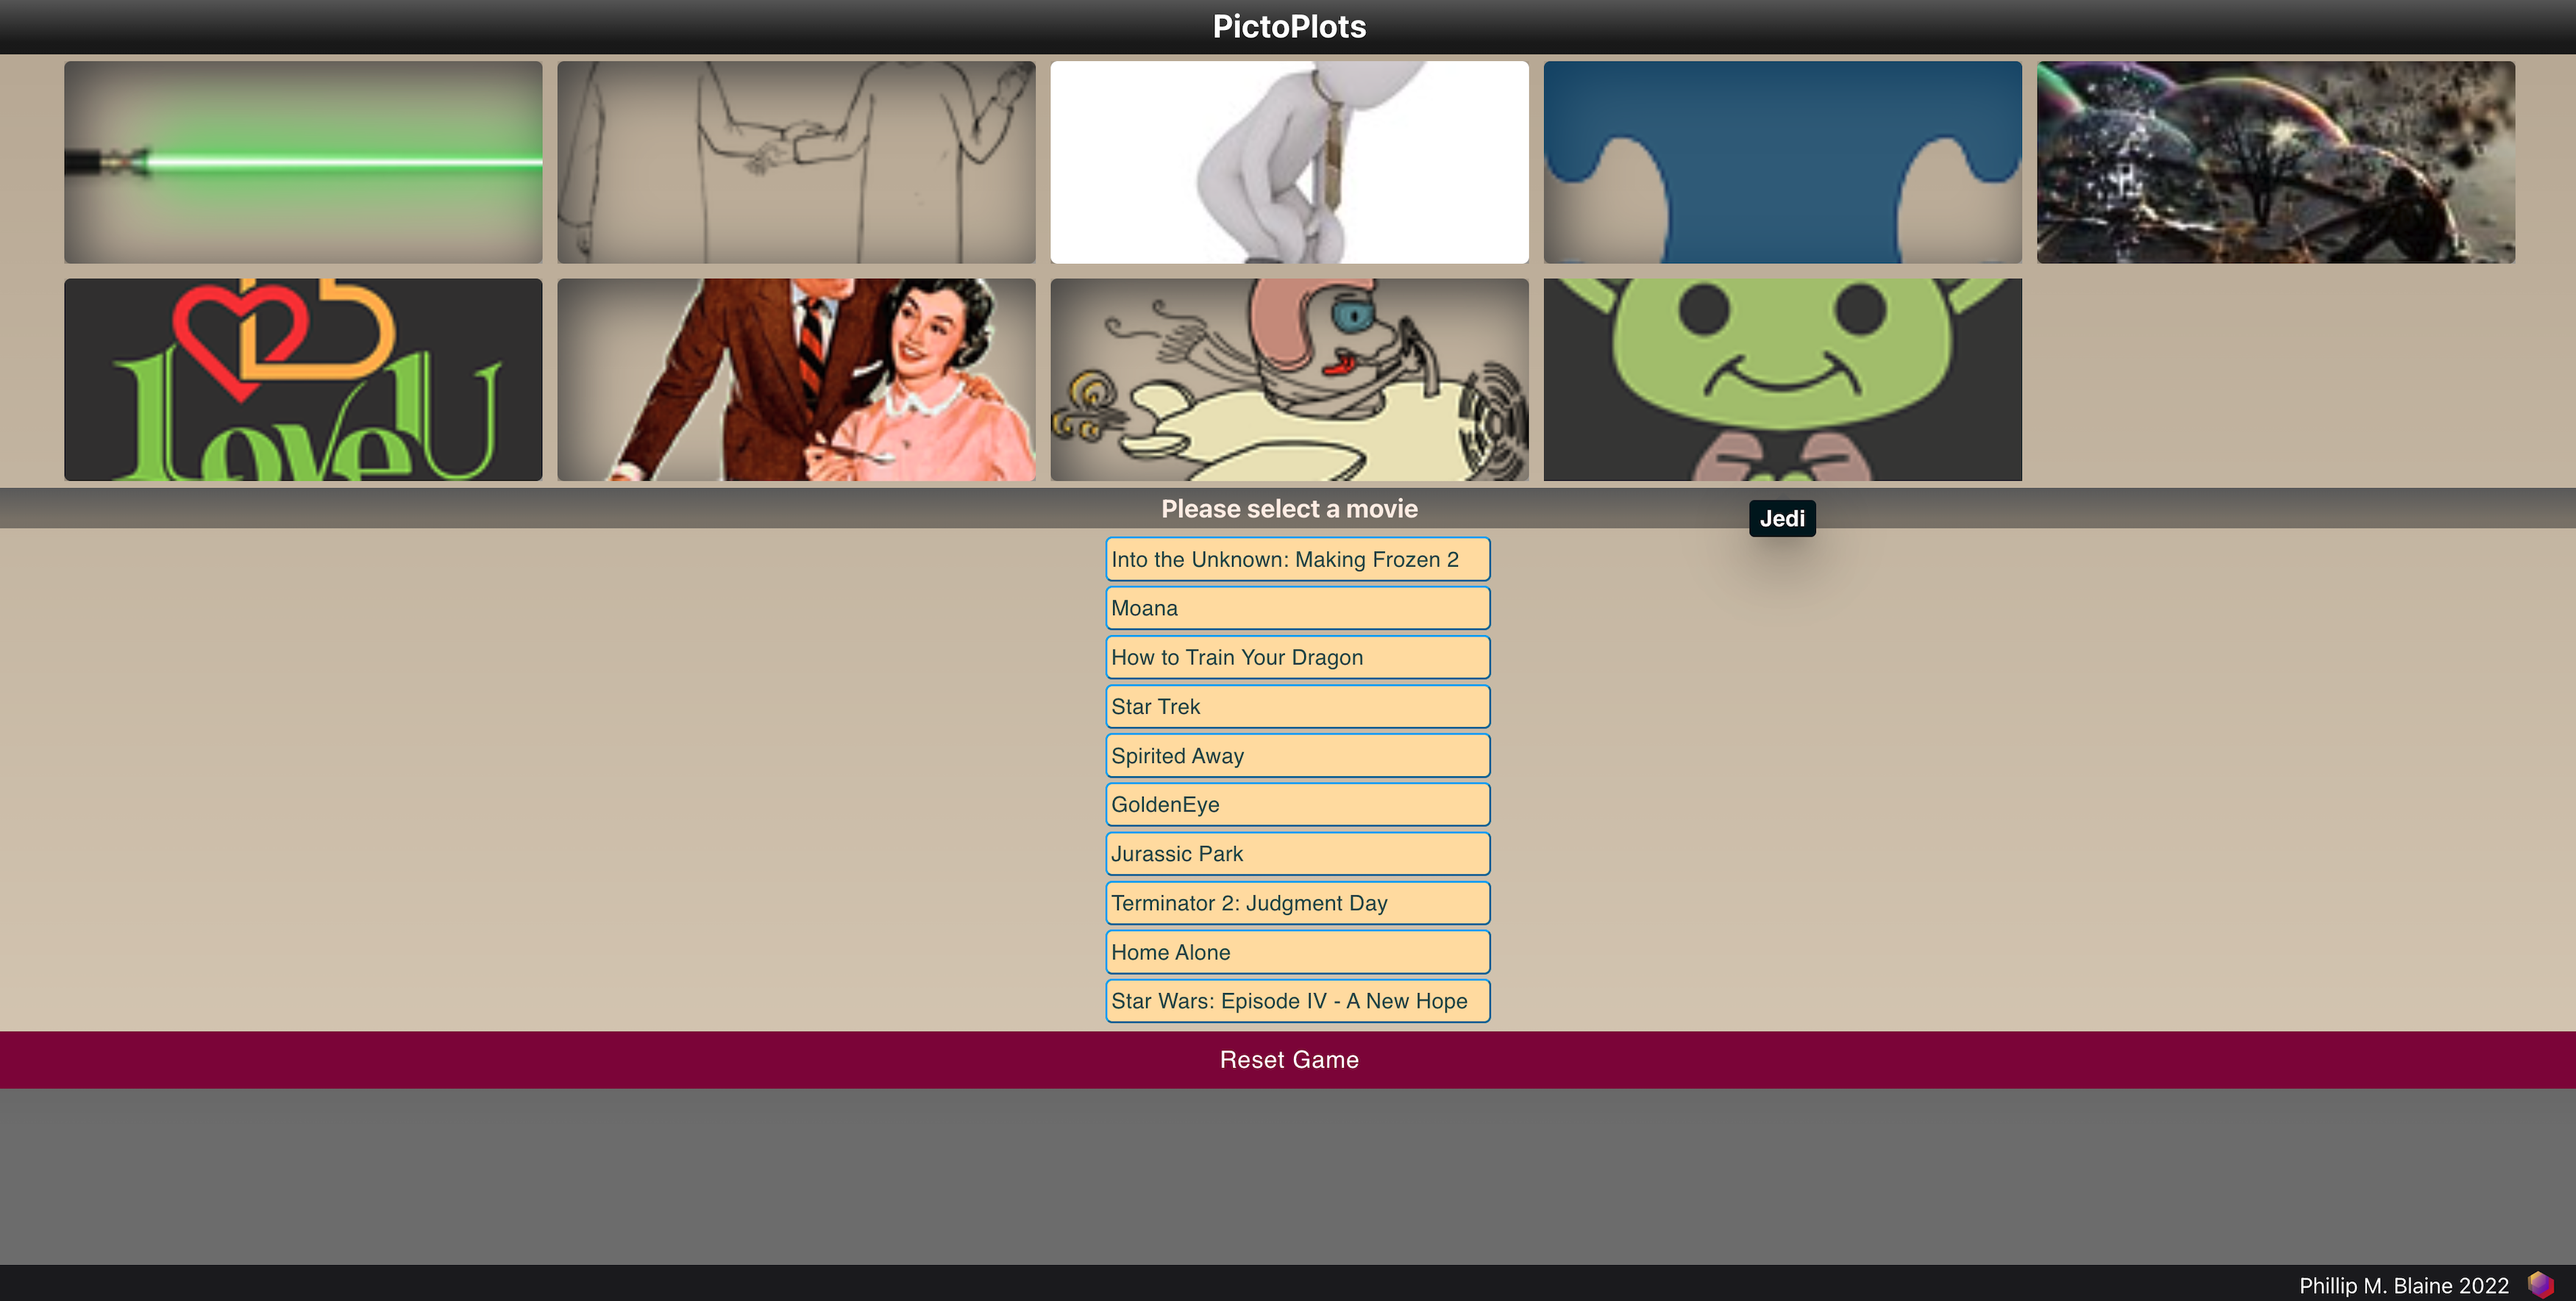
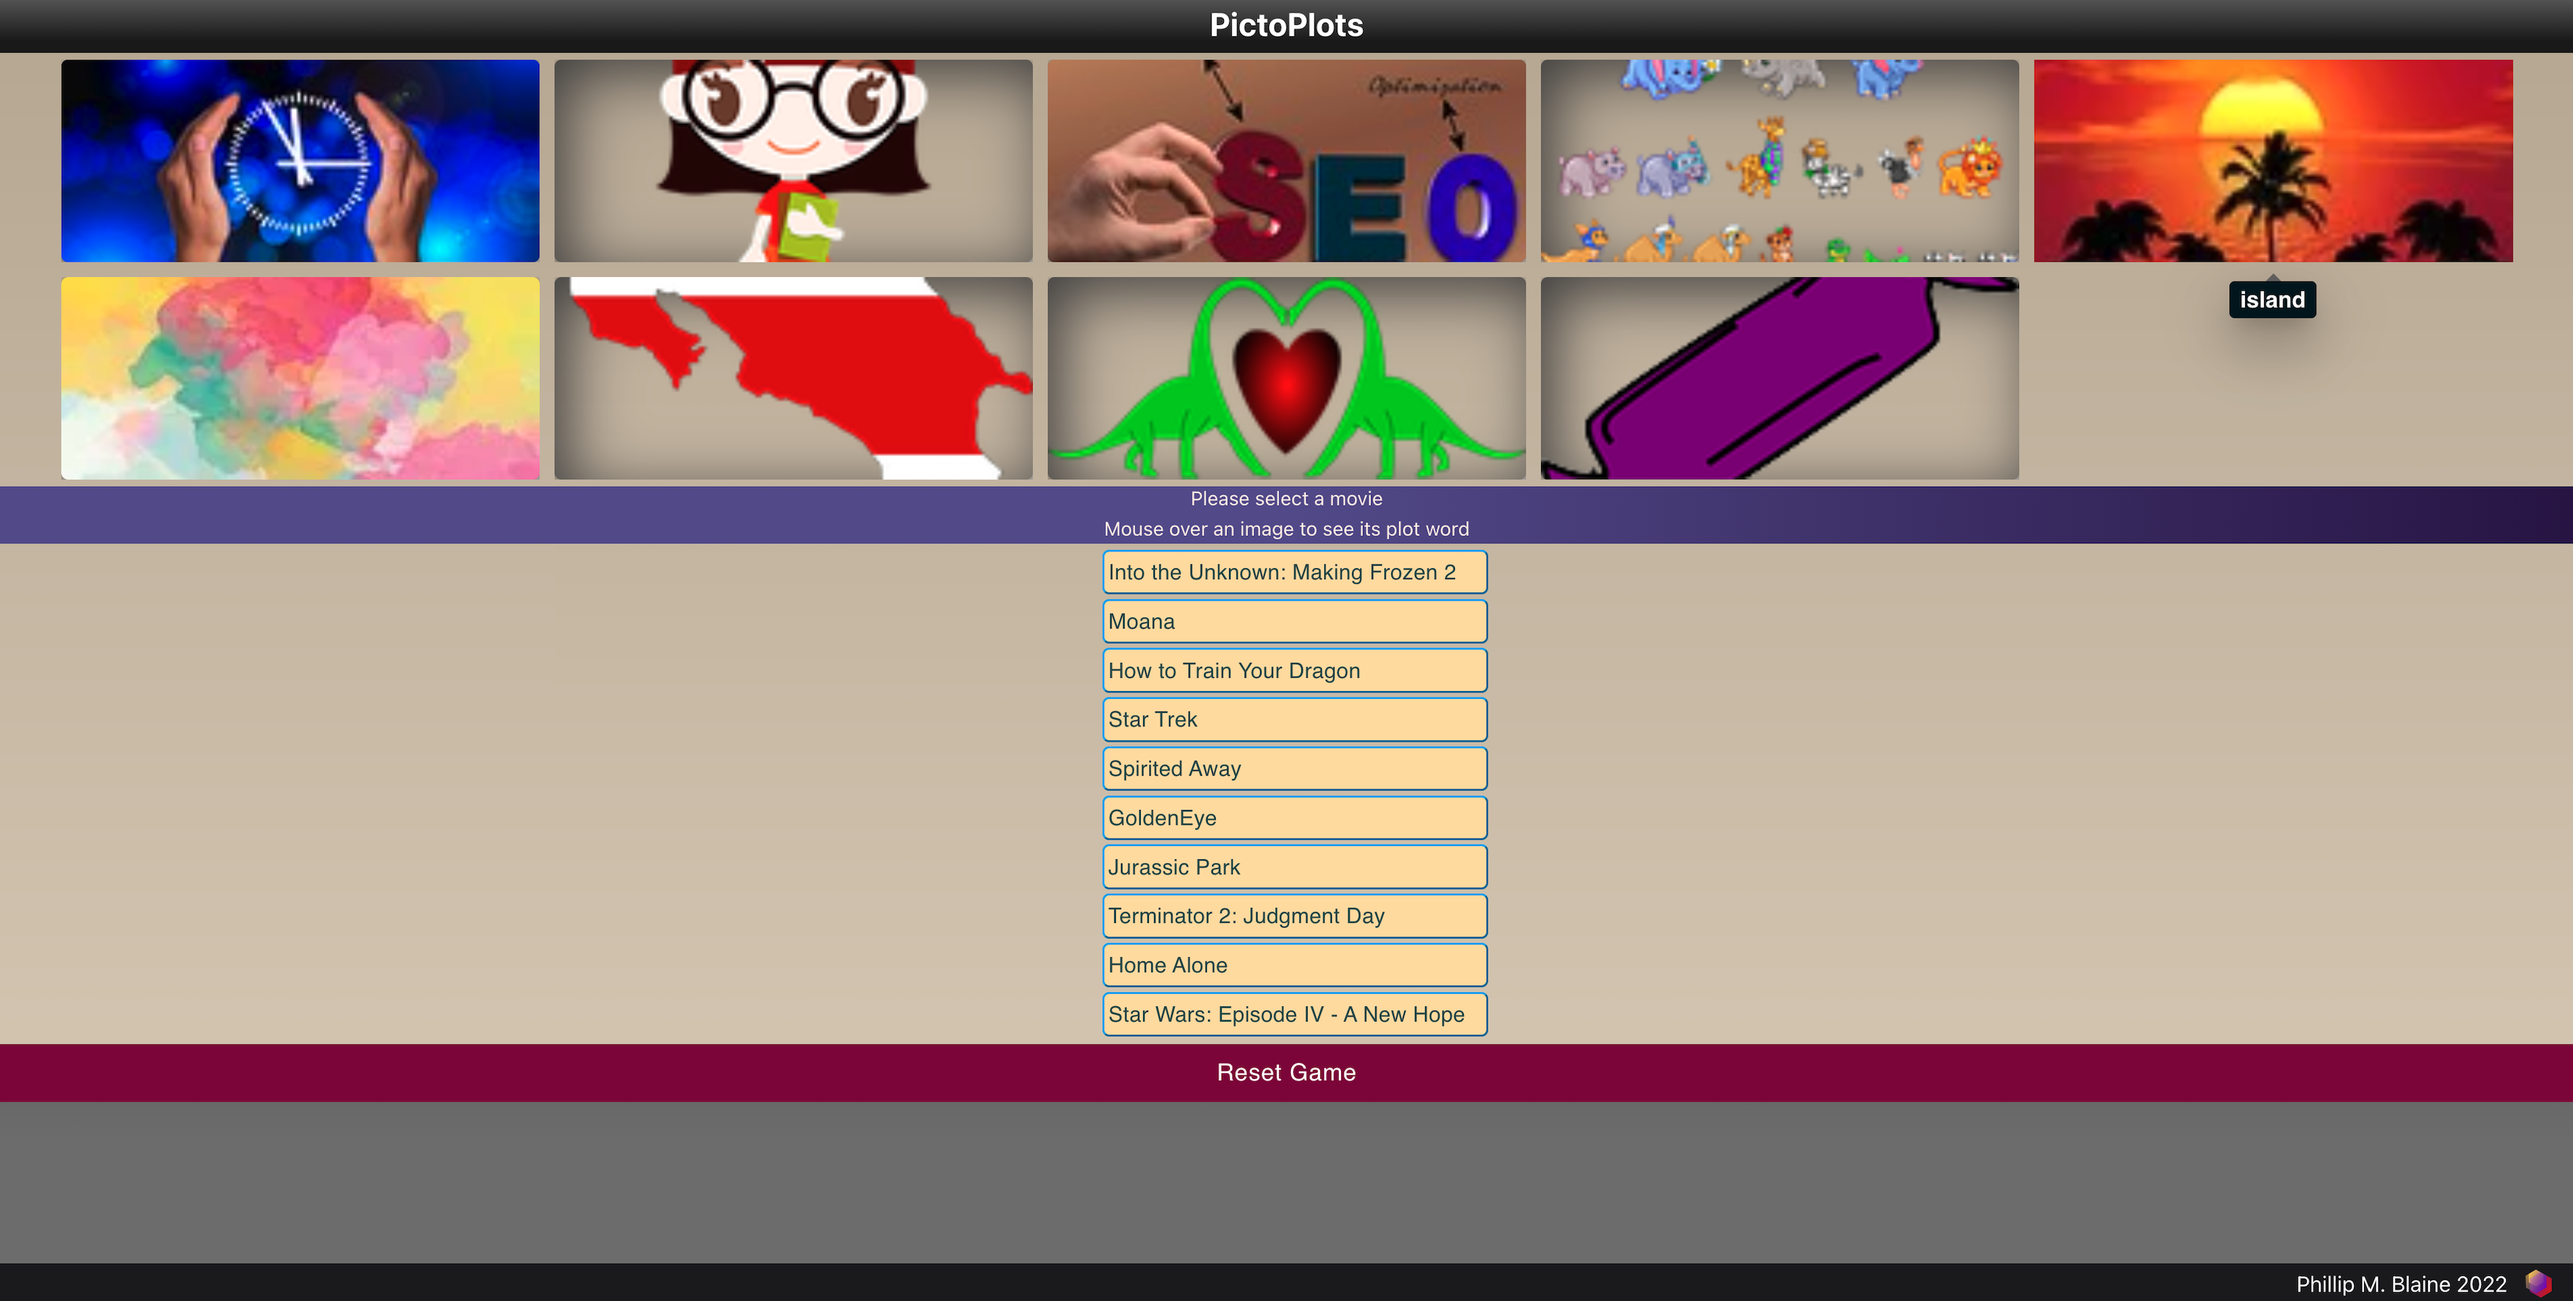
styling changes, refactored some code related to displaying text directly below pictures, updated images to reflect changes

diff --git a/src/components/movies/movies.jsx b/src/components/movies/movies.jsx
@@ -86,30 +86,6 @@ export default function Movies(props) {
         return '#777';
     }
 
-    const displayMoviesBorderColor = () => {
-        if (props.dataFetched && !props.winGameEnd) {
-            return '#03a9f4';
-        }
-
-        if (props.winGameEnd) {
-            return 'darkseagreen';
-        }
-
-        return '#808080';
-    }
-
-    const moviesDivBackgroundColor = () => {
-        if (props.dataFetched && !props.winGameEnd) {
-            return 'rgba(255, 239, 213,0.7)';
-        }
-
-        if (props.winGameEnd) {
-            return 'linear-gradient(to top right, #8fbc8f, #8fbc8f, #8fbc8f)';
-        }
-
-        return 'lightslategrey';
-    }
-
     const displayMoviesArrayChoices = () => {
         return props.moviesArray.map((value, index) => {
             return (
@@ -148,6 +124,18 @@ export default function Movies(props) {
         });
     }
 
+    const displayMoviesBorderColor = () => {
+        if (props.dataFetched && !props.winGameEnd) {
+            return '#03a9f4';
+        }
+
+        if (props.winGameEnd) {
+            return 'darkseagreen';
+        }
+
+        return '#808080';
+    }
+
     const displaySelectedMovieImages = () => {
         if (props.gameStarted && props.selectedMovieImages.length && props.dataFetched) {
             return (
@@ -176,21 +164,48 @@ export default function Movies(props) {
                 </ImageList>
             );
         } else if (props.gameStarted && !props.selectedMovieImages.length && !props.dataFetched) {
-            return <h2>Loading ...</h2>
+            return <h2>Loading ...</h2>;
         } else {
-            return (<></>);
+            return <></>;
         }
     }
 
     const displaySelectedMovieText = () => {
         if (!props.selectedMovieImages.length) {
-            return 'Please select the correct movie below based on the pictures that load above on game start';
-        } else if (props.userSelection) {
-            return `Your Selection: ${props.userSelection}`;
+            return (
+                <ul className='listTextStyle'>
+                    <li>Please select the correct movie below based on the pictures that load on game start</li>
+                    <li>Each picture represents a single word in the correct movie's plot description</li>
+                    <li>The correct movie is one of the movies listed in the column of buttons</li>
+                </ul>
+            );
         }
-        else {
-            return 'Please select a movie';
+
+        return (
+            <ul
+                className='listTextStyle'
+                style={{
+                    background: `${props.winGameEnd
+                        ? "linear-gradient(to right, #8fbc8f, seagreen, #000)"
+                        : "linear-gradient(to right, rgb(93, 84, 149), rgb(93, 84, 149), rgb(43, 20, 77))"}`
+                }}
+            >
+                <li>{props.userSelection ? `Your Selection: ${props.userSelection}` : "Please select a movie"}</li>
+                <li>Mouse over an image to see its plot word</li>
+            </ul>
+        );
+    }
+
+    const moviesDivBackgroundColor = () => {
+        if (props.dataFetched && !props.winGameEnd) {
+            return 'rgba(255, 239, 213,0.7)';
         }
+
+        if (props.winGameEnd) {
+            return 'linear-gradient(to top right, #8fbc8f, #8fbc8f, #8fbc8f)';
+        }
+
+        return 'lightslategrey';
     }
 
     return (
@@ -202,7 +217,7 @@ export default function Movies(props) {
         >
             {displaySelectedMovieImages()}
 
-            <h3 className="moviesText">{displaySelectedMovieText()}</h3>
+            <div>{displaySelectedMovieText()}</div>
 
             <form onSubmit={props.handleAnswerSubmit}>
                 <FormControl
@@ -222,6 +237,6 @@ export default function Movies(props) {
                     </FormHelperText>
                 </FormControl>
             </form>
-        </MoviesDiv >
+        </MoviesDiv>
     )
 }

diff --git a/src/styles/movies.scss b/src/styles/movies.scss
@@ -1,7 +1,26 @@
-.moviesText {
+.listTextStyle {
+    background: linear-gradient(to right, rgb(65, 65, 136), rgb(78, 78, 96), #000);
     color: #ffefe7;
-    margin: 0 0 0.25em 0;
-    background: linear-gradient(to bottom, rgba(100, 100, 100, 1) 0%,
-            rgba(50, 50, 50, 0.5) 80%);
-    padding: 4px 0,
+    margin: 0;
+    text-align: center;
+    transition: 2s;
+
+    li {
+        color: #ffefe7;
+        display: block;
+        font-size: 0.9em;
+        list-style-position: inside;
+        list-style-type: none;
+        margin: 0.2em 0 0 0;
+        padding: 0 0 0.2em 0;
+        transition: 2s;
+    }
+
+    li:first-of-type {
+        margin-top: 0;
+    }
+
+    li:last-of-type {
+        margin-bottom: 0.2em;
+    }
 }
